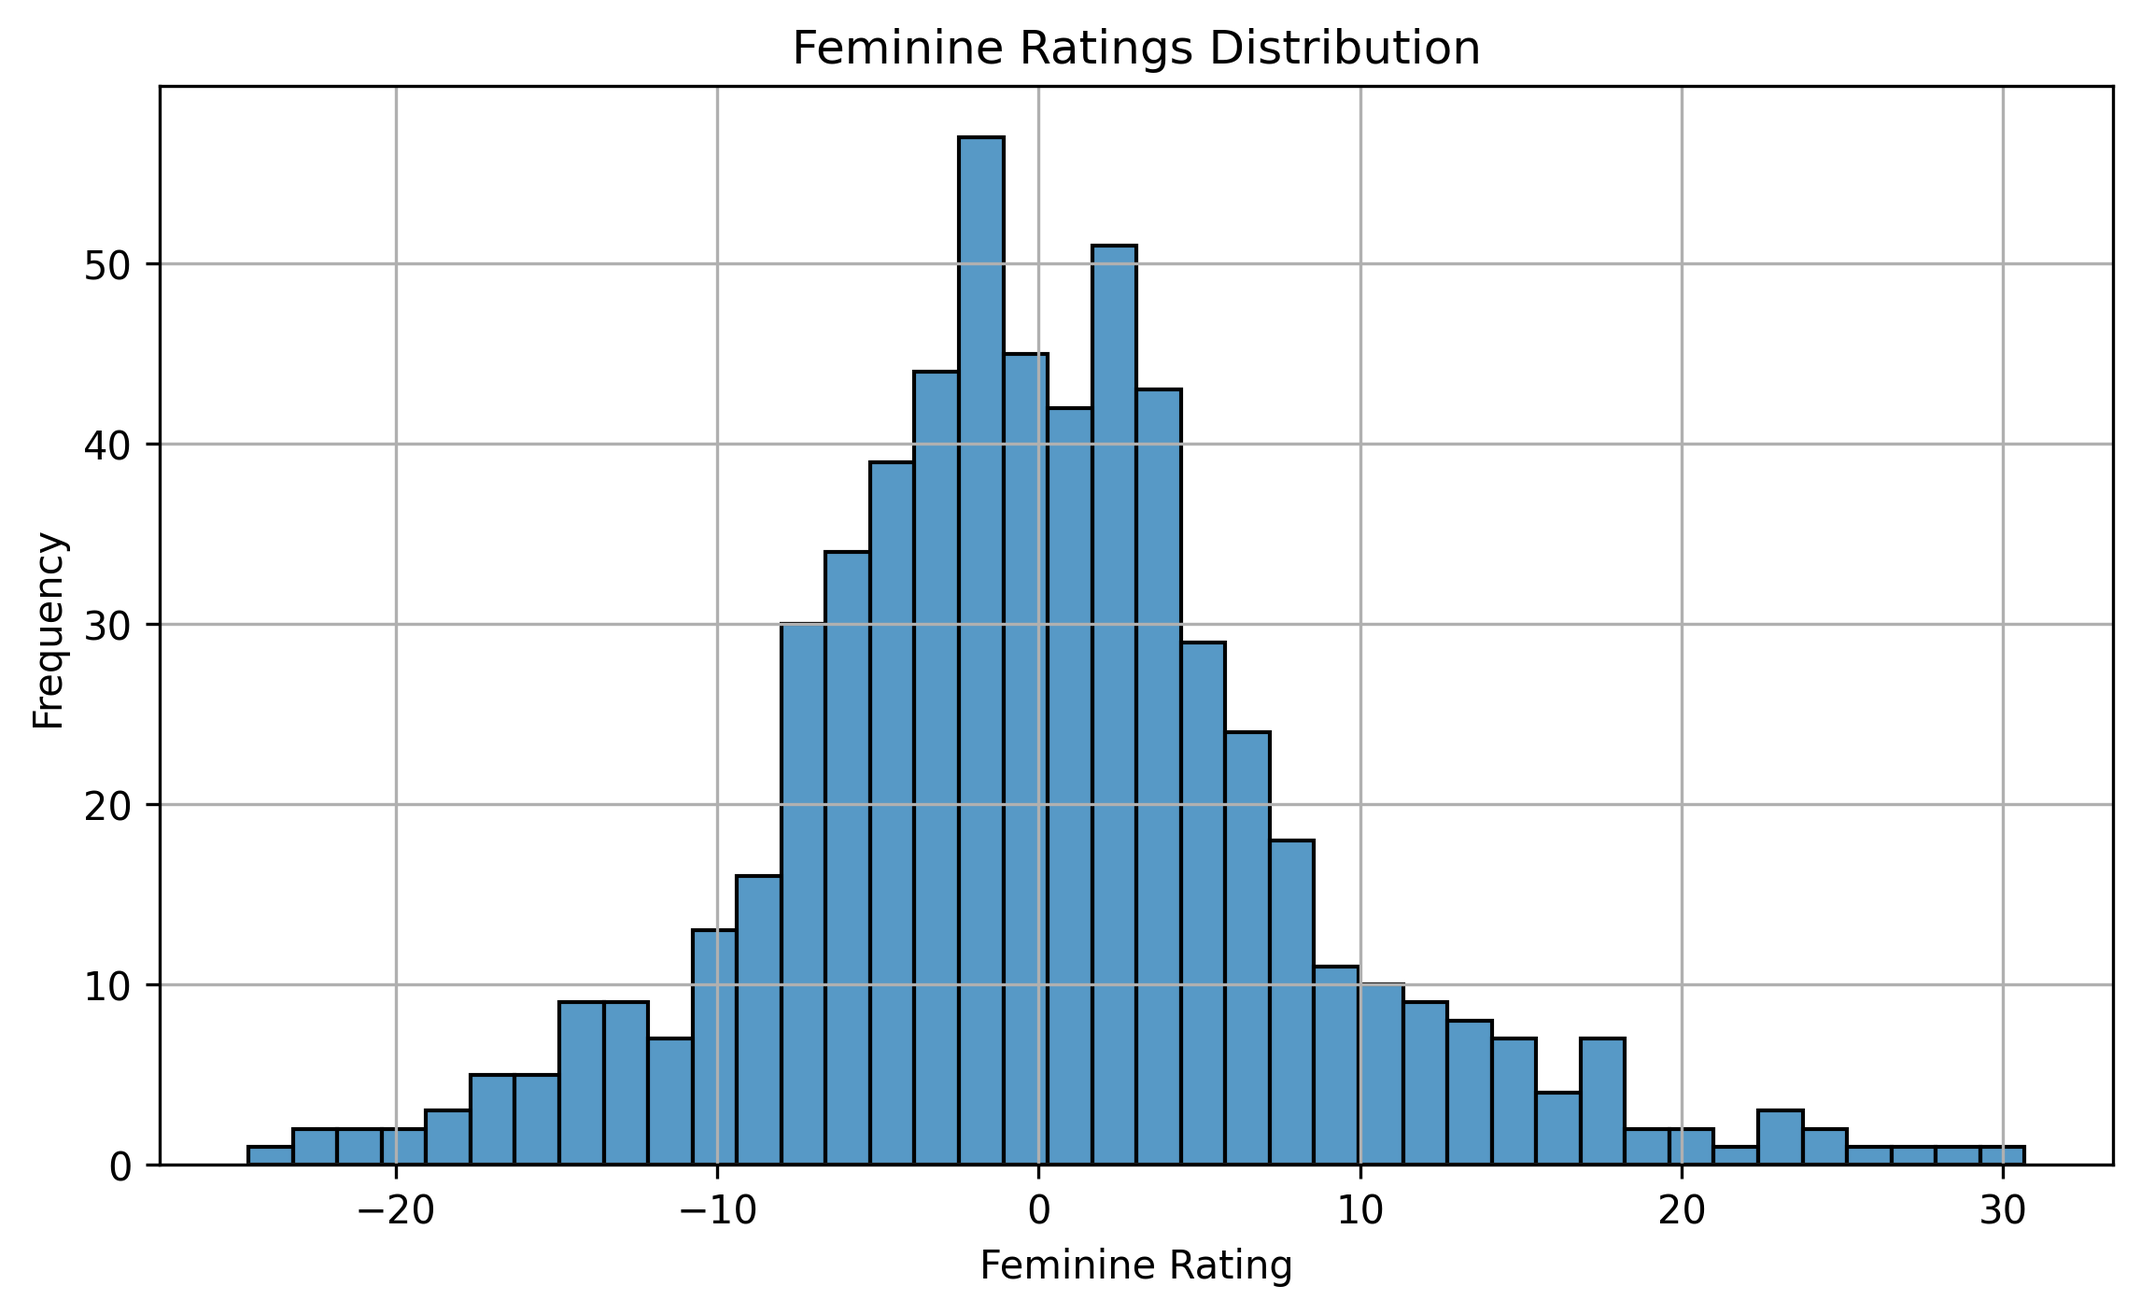
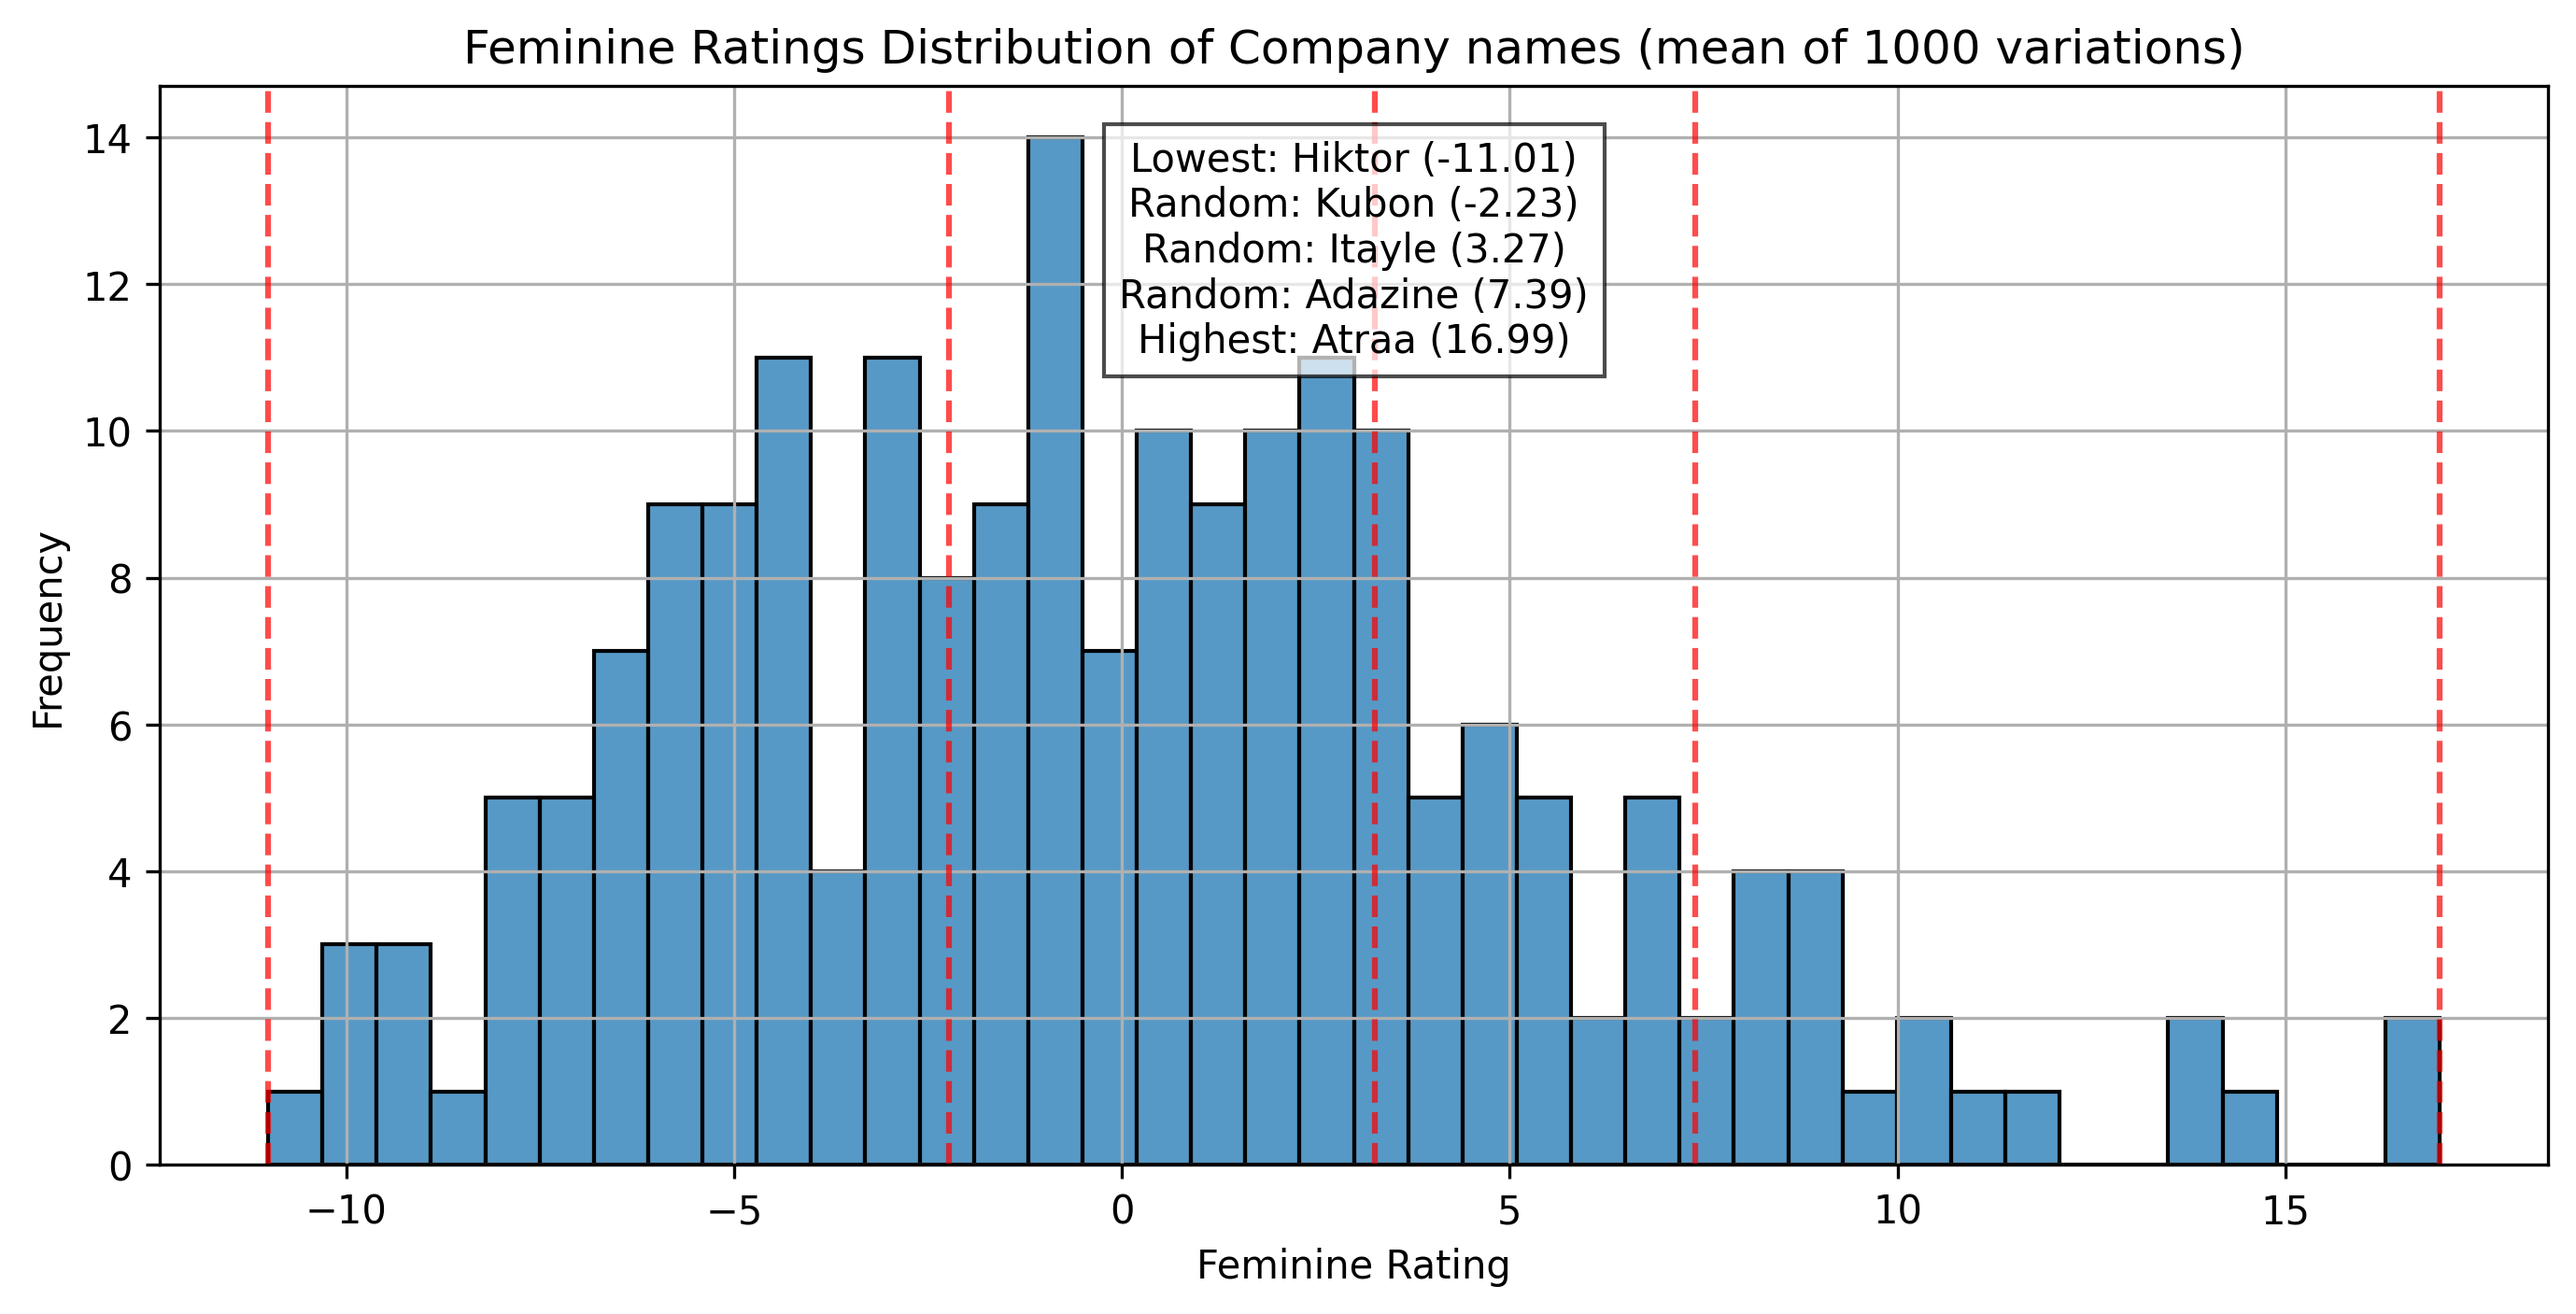
plotting

diff --git a/plotting_mean.py b/plotting_mean.py
@@ -1,12 +1,12 @@
 import json
+import random
 import pandas as pd
 import matplotlib.pyplot as plt
 import seaborn as sns
 from pathlib import Path
 
 # Reload the processed data
-processed_file = Path("data/processed/word_ratings.json")
-
+processed_file = Path("data/processed/company_ratings.json")
 if not processed_file.exists():
     raise FileNotFoundError(f"⚠ Processed data file not found: {processed_file}")
 
@@ -22,21 +22,59 @@ plot_output_dir = Path("plots")
 plot_output_dir.mkdir(parents=True, exist_ok=True)
 
 # Define exact figure size for consistency
-fixed_size = (9, 5)
+fixed_size = (11, 5)
 
 # Create and save plots for each trait (for pseudowords and company names)
 for trait in ["trustworthy", "evil", "smart", "feminine"]:
     if trait in df.columns:
         fig, ax = plt.subplots(figsize=fixed_size)  # Ensure exact size
         sns.histplot(df[trait], bins=40, ax=ax)  # No KDE line
-        ax.set_title(f"{trait.capitalize()} Ratings Distribution")
+        ax.set_title(f"{trait.capitalize()} Ratings Distribution of Company names (mean of 1000 variations)")
         ax.set_xlabel(f"{trait.capitalize()} Rating")
         ax.set_ylabel("Frequency")
         ax.grid(True)
 
+        # Calculate the lowest, highest, and three random words for the trait
+        lowest_word = df[trait].idxmin()
+        highest_word = df[trait].idxmax()
+        lowest_value = df.loc[lowest_word, trait]
+        highest_value = df.loc[highest_word, trait]
+        
+        # Exclude lowest and highest words from random selection
+        remaining_words = [w for w in df.index if w not in [lowest_word, highest_word]]
+        if len(remaining_words) >= 3:
+            random_words = random.sample(remaining_words, 3)
+        else:
+            random_words = remaining_words
+
+        # Create a list with tuples: (word, rating_value, type)
+        words_info = []
+        words_info.append((lowest_word, lowest_value, "Lowest"))
+        words_info.append((highest_word, highest_value, "Highest"))
+        for word in random_words:
+            words_info.append((word, df.loc[word, trait], "Random"))
+        
+        # Sort the words by rating value so vertical lines are drawn in order
+        words_info.sort(key=lambda x: x[1])
+        
+        # Draw vertical dashed red lines for each word at its rating value
+        for word, value, _ in words_info:
+            ax.axvline(x=value, linestyle='--', color='red', alpha=0.7)
+        
+        # Construct annotation text for the top frame
+        annotation_lines = []
+        for word, value, category in words_info:
+            annotation_lines.append(f"{category}: {word} ({value:.2f})")
+        annotation_text = "\n".join(annotation_lines)
+        
+        # Place the annotation in a frame at the top of the plot (centered horizontally)
+        ax.text(0.5, 0.95, annotation_text, transform=ax.transAxes, fontsize=10,
+                verticalalignment='top', horizontalalignment='center',
+                bbox=dict(facecolor='white', alpha=0.7, edgecolor='black'))
+        
         # Save plot
         plot_path = plot_output_dir / f"{trait}_ratings_distribution.png"
         fig.savefig(plot_path, dpi=300, bbox_inches="tight")
         plt.close(fig)  # Close plot to free memory
-
+ 
         print(f"✅ Saved plot for {trait} at {plot_path}")

diff --git a/plotting_features.py b/plotting_features.py
@@ -1,0 +1,71 @@
+import json
+import pandas as pd
+import matplotlib.pyplot as plt
+from pathlib import Path
+
+# Load JSON data
+json_path = Path("data/processed/company_ratings.json")
+with open(json_path, "r", encoding="utf-8") as f:
+    data = json.load(f)
+
+# Create DataFrame from JSON data
+df = pd.DataFrame.from_dict(data, orient="index")
+
+# Compute overall averages for each trait
+overall_avg = df.mean()
+
+# Compute averages for words containing at least one 'x'
+words_with_x = df.index[df.index.str.lower().str.contains('x')]
+avg_with_x = df.loc[words_with_x].mean()
+
+# Compute averages for words containing at least one 'a'
+words_with_a = df.index[df.index.str.lower().str.contains('a')]
+avg_with_a = df.loc[words_with_a].mean()
+
+# Compute averages for words ending with 'a' (the "a." condition)
+words_ending_a = df.index[df.index.str.lower().str.endswith('a')]
+avg_ending_a = df.loc[words_ending_a].mean()
+
+# Create a summary table with the computed averages (rounded to 2 decimals)
+results_table = pd.DataFrame({
+    'Overall': overall_avg,
+    "Contains 'x'": avg_with_x,
+    "Contains 'a'": avg_with_a,
+    "Ends with 'a'": avg_ending_a
+}).round(2)
+
+# Create a plot to display the table
+fig, ax = plt.subplots(figsize=(10, 3))
+ax.axis('tight')
+ax.axis('off')
+
+table = ax.table(cellText=results_table.values,
+                 colLabels=results_table.columns,
+                 rowLabels=results_table.index,
+                 cellLoc='center',
+                 loc='center')
+
+# Style the table
+table.auto_set_font_size(False)
+table.set_fontsize(10)
+table.scale(1.2, 1.2)
+
+# Customize cell styling
+for key, cell in table.get_celld().items():
+    cell.set_edgecolor('black')
+    cell.set_linewidth(1)
+    # Header cells: column headers (row index -1) and row labels (column index -1)
+    if key[0] == -1 or key[1] == -1:
+        cell.set_facecolor('#40466e')
+        cell.set_text_props(color='w', weight='bold')
+    else:
+        cell.set_facecolor('#f1f1f2')
+
+plt.title("Average Ratings by Condition", fontsize=12)
+
+# Save the table plot
+output_path = Path("plots/average_ratings_table.png")
+plt.savefig(output_path, dpi=300, bbox_inches='tight')
+plt.show()
+
+print(f"Table plot saved to {output_path}")

diff --git a/getting_mean.py b/getting_mean.py
@@ -3,8 +3,8 @@ import json
 from pathlib import Path
 
 # Define input and output directories
-input_dir = Path("data/all_names")
-output_file = Path("data/processed/word_ratings.json")
+input_dir = Path("data/company_names")
+output_file = Path("data/processed/company_ratings.json")
 
 # Create output directory if it doesn't exist
 output_file.parent.mkdir(parents=True, exist_ok=True)
@@ -17,7 +17,7 @@ word_ratings = {}
 
 # Process each CSV file
 for trait in traits:
-    file_path = input_dir / f"all_names_{trait}.csv"
+    file_path = input_dir / f"company_names_{trait}.csv"
     if not file_path.exists():
         print(f"⚠ File not found: {file_path}, skipping.")
         continue
